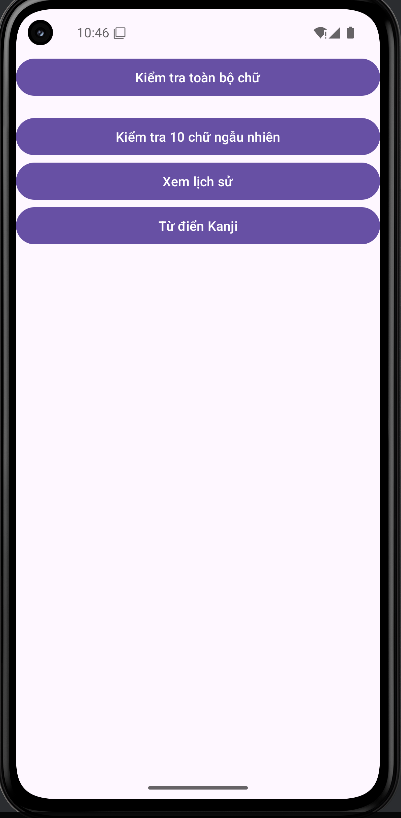
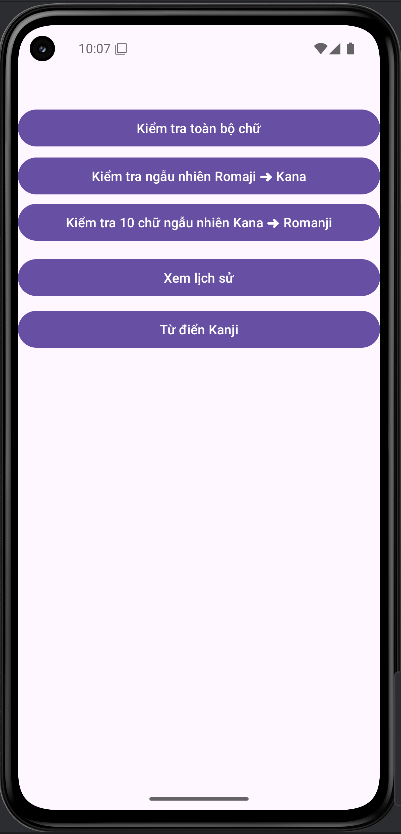
Update Thêm hình cho app tiếng Nhật

Changed region(s): [[0.0, 0.0, 1.0, 1.0]]

diff --git a/README.md b/README.md
@@ -12,7 +12,7 @@
 - 🔹 **Màu chữ (Text):** `#5D4037` *(Nâu đậm)*
 ---
 
-## BÀI TẬP MỚI NHẤT (23/04/2025)
+## BÀI TẬP MỚI NHẤT (24/04/2025)
 ### 🔹 FinalProject_BasicJapLearning (Level N5) (In Progress)
 - 📂 [Xem mã nguồn](./FinalProject_BasicJapLearning/app/src/main/)
 - Các chức năng:
@@ -26,6 +26,7 @@
   <img src="./FinalProject_BasicJapLearning/KetQua2.PNG" alt="Ex11_THS_Fragment_Static" width="20%"/>
   <img src="./FinalProject_BasicJapLearning/KetQua3.PNG" alt="Ex11_THS_Fragment_Static" width="20%"/>
   <img src="./FinalProject_BasicJapLearning/KetQua4.PNG" alt="Ex11_THS_Fragment_Static" width="20%"/>
+  <img src="./FinalProject_BasicJapLearning/KetQua5.PNG" alt="Ex11_THS_Fragment_Static" width="20%"/>
 </div>
 ---
 
